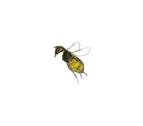
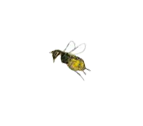
aaa

Changed region(s): [[0.3357, 0.3095, 0.6434, 0.6667], [0.6154, 0.381, 0.6434, 0.4286], [0.5874, 0.3571, 0.6154, 0.381]]

diff --git a/js/jquery_page_02.js b/js/jquery_page_02.js
@@ -1,92 +1,116 @@
 //work on shaking of rose
 
 $(document).ready(function() {
-var backText = 0.3;
-var textFade = 2000;
-var beeScene = 1;
-    //create a new instance of shake.js.
-    var myShakeEvent = new Shake({
-        threshold: 5
+    var backText = 0.3;
+    var textFade = 2000;
+    var beeScene = 1;
+        //create a new instance of shake.js.
+        var myShakeEvent = new Shake({
+            threshold: 5
 
-    });
+        });
 
-      // start listening to device motion
-    myShakeEvent.start();
+          // start listening to device motion
+        myShakeEvent.start();
 
-    // register a shake event
-    window.addEventListener('shake', shakeEventDidOccur, false);
-
-
-
- 
-  
-    $('body').click (function (){
-if (beeScene == 1) {
-       disturbBee();
-   }
-    });
+        // register a shake event
+        window.addEventListener('shake', shakeEventDidOccur, false);
 
 
 
-var t1;
-var t2;
-var dir1 = false;
-var dir2 = false;
-var roseTimer = 1;
+     
+      
+        $('body').click (function (){
+    if (beeScene == 1) {
+           disturbBee();
+       }
+        });
 
-function animRose () {
+
+    $(function () {
+    $('#beeBee01').bind("tap", tapHandler);
+
+        function tapHandler (event) 
+        {
+            if (beeScene == 2) {
+                stopAnimBee();
+                
+                      $('#beeBee01').animate({top: '+=5px'},100).delay(100).animate({top: '247px', left: '727px'},1500);
+                      $('#beeKing01').delay(100).attr('src', 'imgs/Bee_King_02.png');
+                      $('#beeBee01').delay(100).attr('src', 'imgs/Bee_Bee.png');
+
+                      $('#beeBee01').delay(3000, function () {
+                        $('.beeText_01 > li:nth-child(3)').fadeTo(textFade, 1);
+                        dotMove();
+                        $('.beeText_01 > li:nth-child(2)').fadeTo(textFade, backText).delay(1500);
+                        });
 
 
- t1 =setInterval(function(){
-        roseTimer +=1;
-    if (roseTimer ==10) {
-                clearInterval(t1);
             }
-    (dir1 == false) ? document.getElementById('beeRose01').style.webkitTransform = "rotate(1.5deg)" : document.getElementById('beeRose01').style.webkitTransform = "rotate(-1.5deg)";
-    dir1 = !dir1;
-}, 100);
-}
-
-function animBee () {
+        }    
+    });
 
 
- t2 =setInterval(function(){
+    var t1;
+    var t2;
+    var dir1 = false;
+    var dir2 = false;
+    var roseTimer = 1;
 
-    (dir2 == false) ? document.getElementById('beeBee01').style.webkitTransform = "rotate(21.5deg)" : document.getElementById('beeBee01').style.webkitTransform = "rotate(18.5deg)";
-    dir2 = !dir2;
-}, 1000);
-}
-
- function stopAnimBee () {
-    clearInterval(t2);
-}
+    function animRose () {
 
 
-       
-    function disturbBee () {
-        dotMove();
-         beeScene = 2;
-        $('.beeText_01 > li:nth-child(2)').fadeTo(textFade, 1);
-        $('.beeText_01 > li:nth-child(1)').fadeTo(textFade, backText,function () {
-                 AnimateRotate(20);            
-        });
-        animRose();
-        $('#beeBee01').delay(textFade).animate({top: '205px'},2000).delay(200).animate({top: '476px', left: '756px'},1500,function (){
-            animBee();
+     t1 =setInterval(function(){
+            roseTimer +=1;
+        if (roseTimer ==10) {
+                    clearInterval(t1);
+                }
+        (dir1 == false) ? document.getElementById('beeRose01').style.webkitTransform = "rotate(1.5deg)" : document.getElementById('beeRose01').style.webkitTransform = "rotate(-1.5deg)";
+        dir1 = !dir1;
+    }, 100);
+    }
 
-        });
-         
+    function animBee () {
+
+
+     t2 =setInterval(function(){
+
+        (dir2 == false) ? document.getElementById('beeBee01').style.webkitTransform = "rotate(21.5deg)" : document.getElementById('beeBee01').style.webkitTransform = "rotate(18.5deg)";
+        dir2 = !dir2;
+    }, 1000);
+    }
+
+     function stopAnimBee () {
+        clearInterval(t2);
     }
 
 
-
-    //shake event callback
-    function shakeEventDidOccur () {
-                if (beeScene ==1) {
-                var roseTimer = 1;
-                disturbBee();
-            }
+           
+        function disturbBee () {
+            dotMove();
+            beeScene = 0;
+             
+            $('.beeText_01 > li:nth-child(2)').fadeTo(textFade, 1);
+            $('.beeText_01 > li:nth-child(1)').fadeTo(textFade, backText,function () {
+                     AnimateRotate(60);            
+            });
+            animRose();
+            $('#beeBee01').delay(textFade).animate({top: '205px'},2000).animate({top: '476px', left: '756px'},1000, function (){
+                      
+                  animBee();
+                beeScene = 2;
+            });          
         }
+
+
+
+        //shake event callback
+        function shakeEventDidOccur () {
+                    if (beeScene ==1) {
+                    var roseTimer = 1;
+                    disturbBee();
+                }
+            }
 
 });
 

diff --git a/theBee.html b/theBee.html
@@ -1,6 +1,6 @@
 <html xmlns="http://www.w3.org/1999/xhtml"><head>
 <title>The King and the Bee</title>
-<meta name="viewport" intial-scale=1.0, content="width=device-width">
+<meta name="viewport" intial-scale='1.0', content="width=device-width">
 <link rel="stylesheet" type="text/css" href="css/stylesheet.css">
 
 

diff --git a/theStar.html b/theStar.html
@@ -1,6 +1,6 @@
 <html><head>
 <title>The King and the Star</title>
-<meta name="viewport" intial-scale=1.0, content="width=device-width">
+<meta name="viewport" intial-scale='1.0', content="width=device-width">
 <link rel="stylesheet" type="text/css" href="css/stylesheet.css">
 
 
